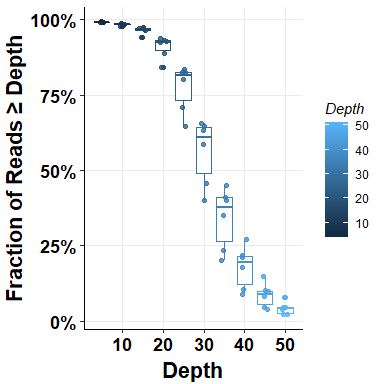
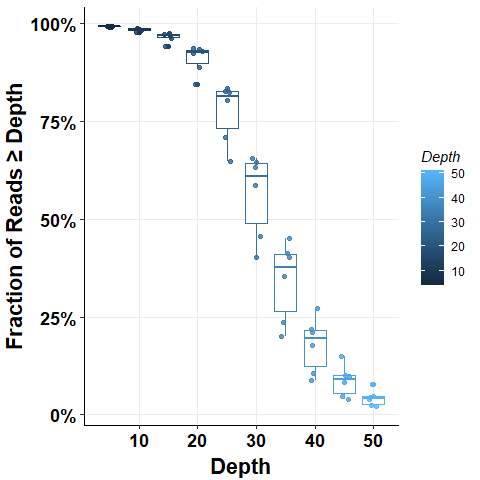
adjusted show pic size

diff --git a/README.md b/README.md
@@ -1,5 +1,12 @@
 <!-- README.md is generated from README.Rmd. Please edit that file -->
-
+``` r
+knitr::opts_chunk$set(
+  collapse = TRUE,
+  comment = "#>",
+  fig.path = "show/README-",
+  warning = FALSE
+)
+```
 
 omplotr: 'ggplot2' Based RNAseq Plot Function Collection
 ========================================================
